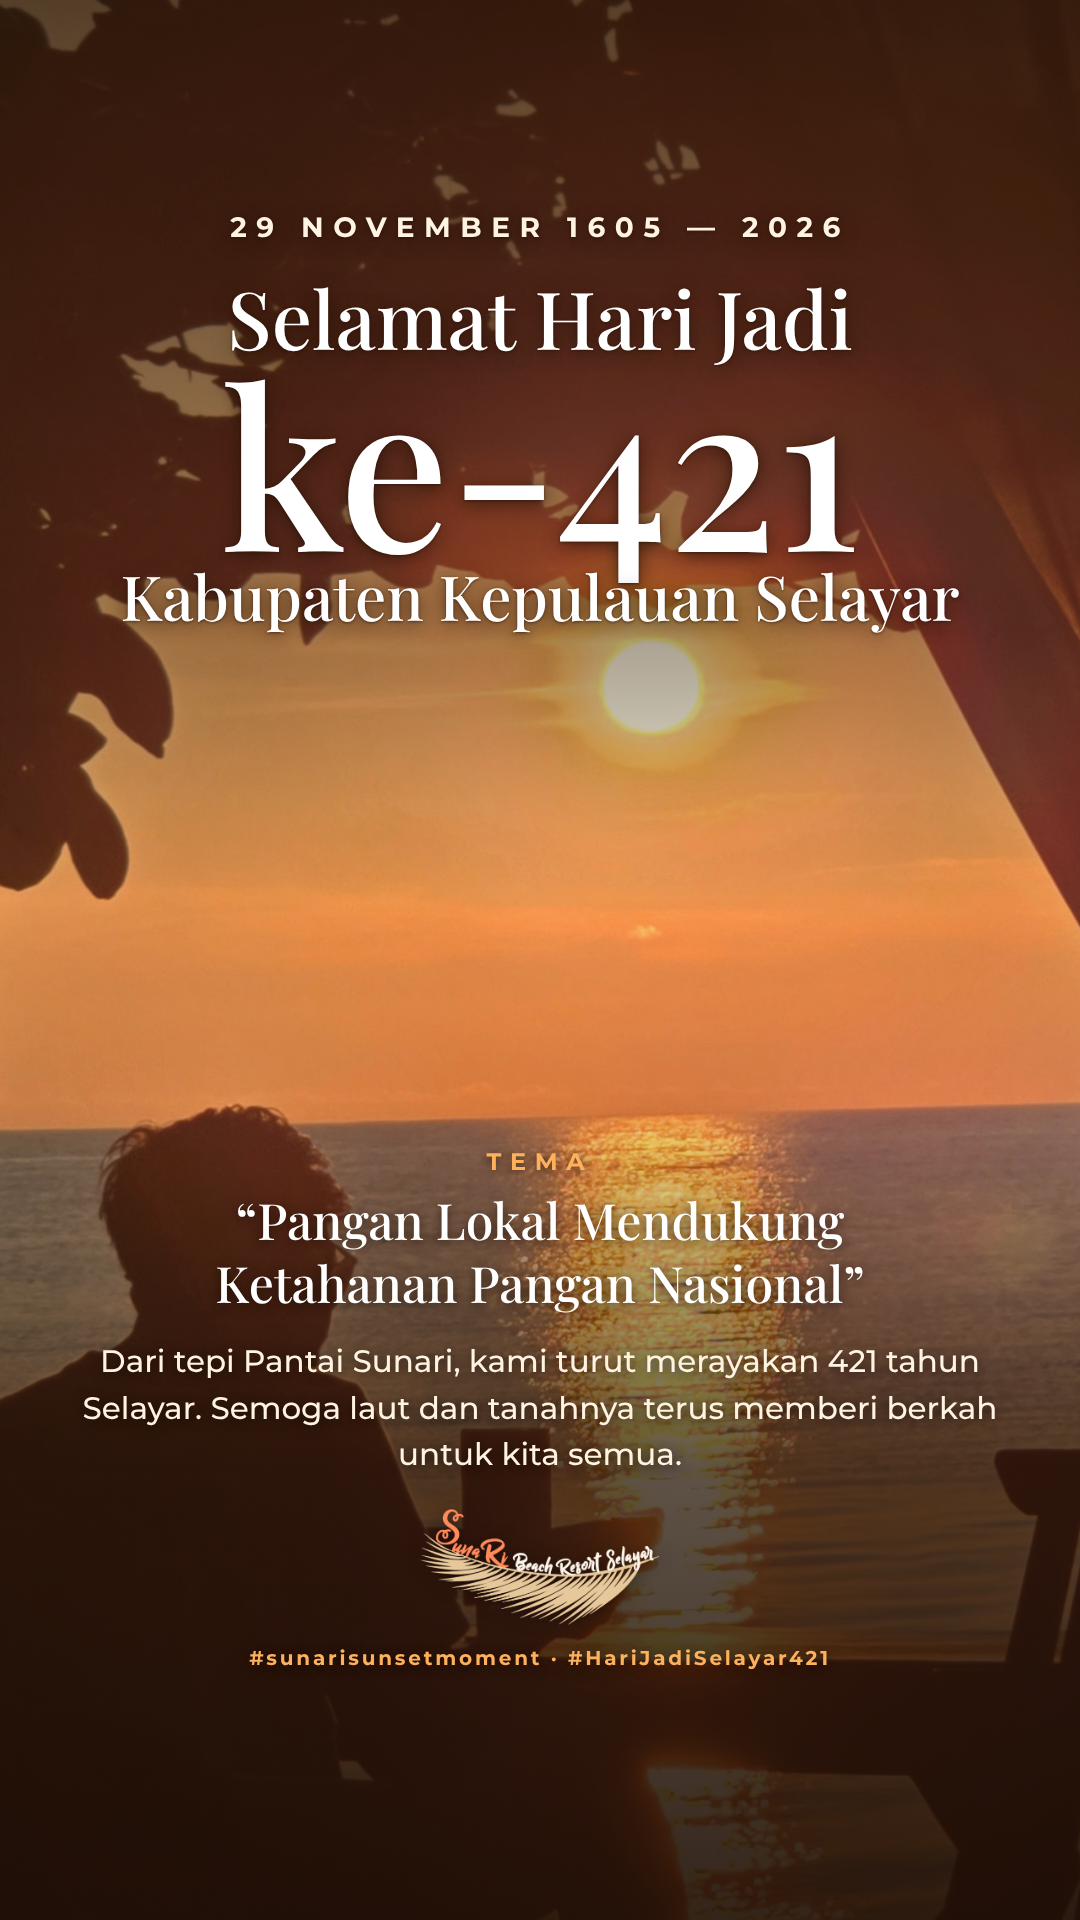
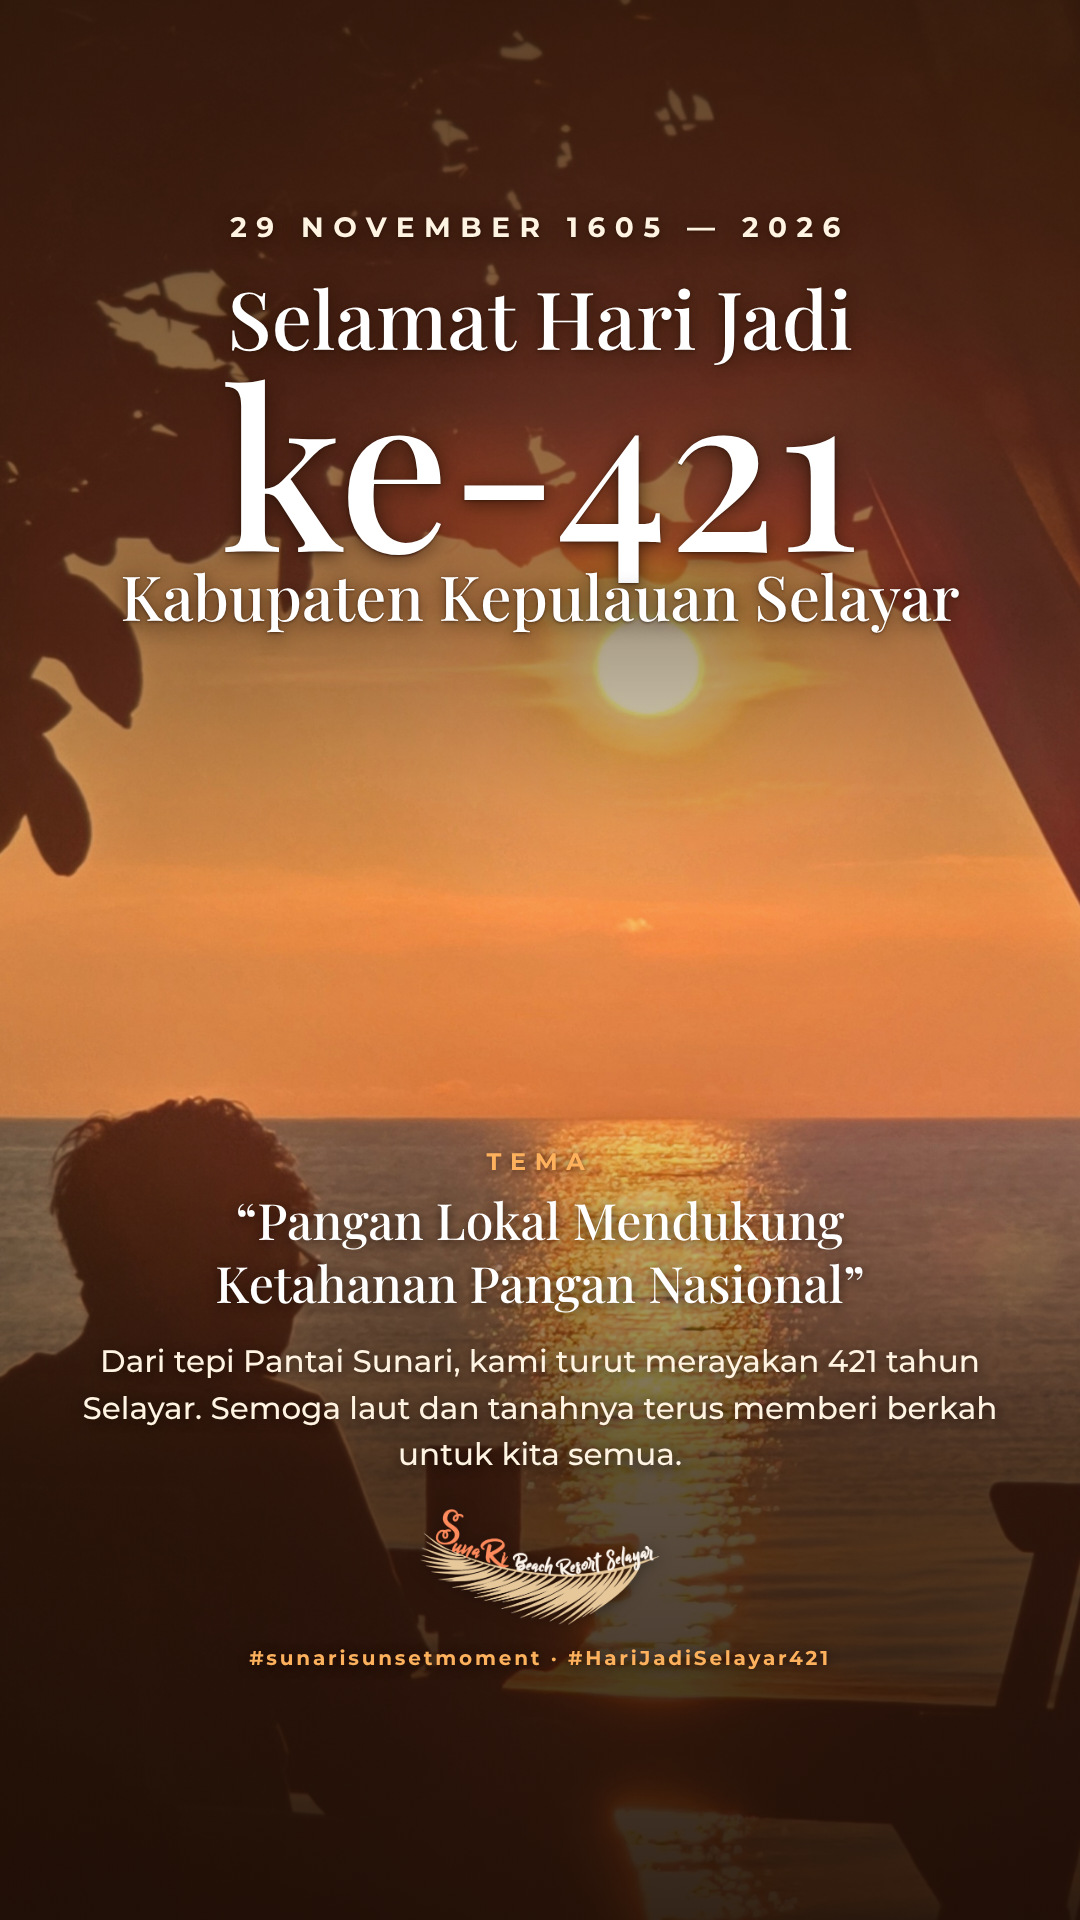
Story Hari Jadi Selayar: foto diluruskan (±1,5°) + color grading tema SunaRi 0.8
Claude-Session: https://claude.ai/code/session_01KeLc5cK8xRmfcoMz1j2mcH

diff --git a/social/hari_jadi_selayar.html b/social/hari_jadi_selayar.html
@@ -13,7 +13,7 @@
 .tema{font-family:'Playfair Display',serif;font-weight:500;font-size:50px;line-height:1.26;margin-top:12px}
 .sub{font-size:31px;line-height:1.5;color:#FFF3E2;margin-top:24px}
 .tag{font-weight:700;font-size:20px;letter-spacing:.14em;color:#FDB15D;margin-top:12px}
-</style></head><body><div class="s" id="story-hari-jadi-421"><img class="bg" src="../assets/photos/graded/senja__85-siluet-tirai-senja-persegi.jpg" style="object-position:15% 50%" alt="">
+</style></head><body><div class="s" id="story-hari-jadi-421"><img class="bg" src="../assets/photos/graded/senja__85-siluet-tirai-senja-persegi-lurus.jpg" style="object-position:15% 50%" alt="">
   <div class="vt"></div><div class="vb"></div>
   <div class="head">
     <div class="kick">29 November 1605 — 2026</div>

diff --git a/social/build_hari_jadi_selayar.py b/social/build_hari_jadi_selayar.py
@@ -1,5 +1,5 @@
 """Story Instagram (1080x1920) ucapan Hari Jadi ke-421 Kabupaten Kepulauan Selayar (29 November 2026), gaya SunaRi.
-# Foto latar: hasil color grading tema SunaRi (resep social/grade_photos.py, kekuatan 0.5) -> assets/photos/graded/senja__85-siluet-tirai-senja-persegi.jpg
+# Foto latar: hasil color grading tema SunaRi (resep social/grade_photos.py, kekuatan 0.5) -> assets/photos/graded/senja__85-siluet-tirai-senja-persegi-lurus.jpg
 Run: python3 social/build_hari_jadi_selayar.py && node social/render_hari_jadi_selayar.js -> social/hari-jadi-selayar/story-hari-jadi-421.png"""
 import pathlib
 H = pathlib.Path(__file__).parent
@@ -21,7 +21,7 @@ CSS = """
 .sub{font-size:31px;line-height:1.5;color:#FFF3E2;margin-top:24px}
 .tag{font-weight:700;font-size:20px;letter-spacing:.14em;color:#FDB15D;margin-top:12px}
 """
-T = f'''<div class="s" id="story-hari-jadi-421"><img class="bg" src="{P}graded/senja__85-siluet-tirai-senja-persegi.jpg" style="object-position:15% 50%" alt="">
+T = f'''<div class="s" id="story-hari-jadi-421"><img class="bg" src="{P}graded/senja__85-siluet-tirai-senja-persegi-lurus.jpg" style="object-position:15% 50%" alt="">
   <div class="vt"></div><div class="vb"></div>
   <div class="head">
     <div class="kick">29 November 1605 — 2026</div>

diff --git a/assets/photos/KATALOG_FOTO.md b/assets/photos/KATALOG_FOTO.md
@@ -93,6 +93,7 @@ Tidak disimpan: foto resto dengan wajah tamu terlihat, foto kaus bergambar wajah
 |---|---|---|
 | `senja/84-afterglow-gazebo-lampu-tamu.jpg` | Afterglow biru-jingga-merah muda, gazebo bambu berlampu & ayunan, lampu gantung, tamu bersantai di tepi pantai | 👤 ada anak kecil & beberapa wajah samar: pakai ukuran kecil/crop, atau dengan izin |
 | `senja/85-siluet-tirai-senja-persegi.jpg` | Siluet tamu dengan minuman di meja, tirai & daun ketapang, matahari & jalur cahaya di laut (1:1) | ✅ (siluet) | Story ucapan Hari Jadi Selayar ke-421, feed senja |
+| `senja/85-siluet-tirai-senja-persegi-lurus.jpg` | Versi no. 85 dengan cakrawala diluruskan (±1,5°), sedikit di-crop | ✅ (siluet) | **Dipakai: story Hari Jadi Selayar ke-421** |
 
 Pasangan mirip (60/61, 66/67): pakai salah satu dalam satu seri, atau beda crop.
 
